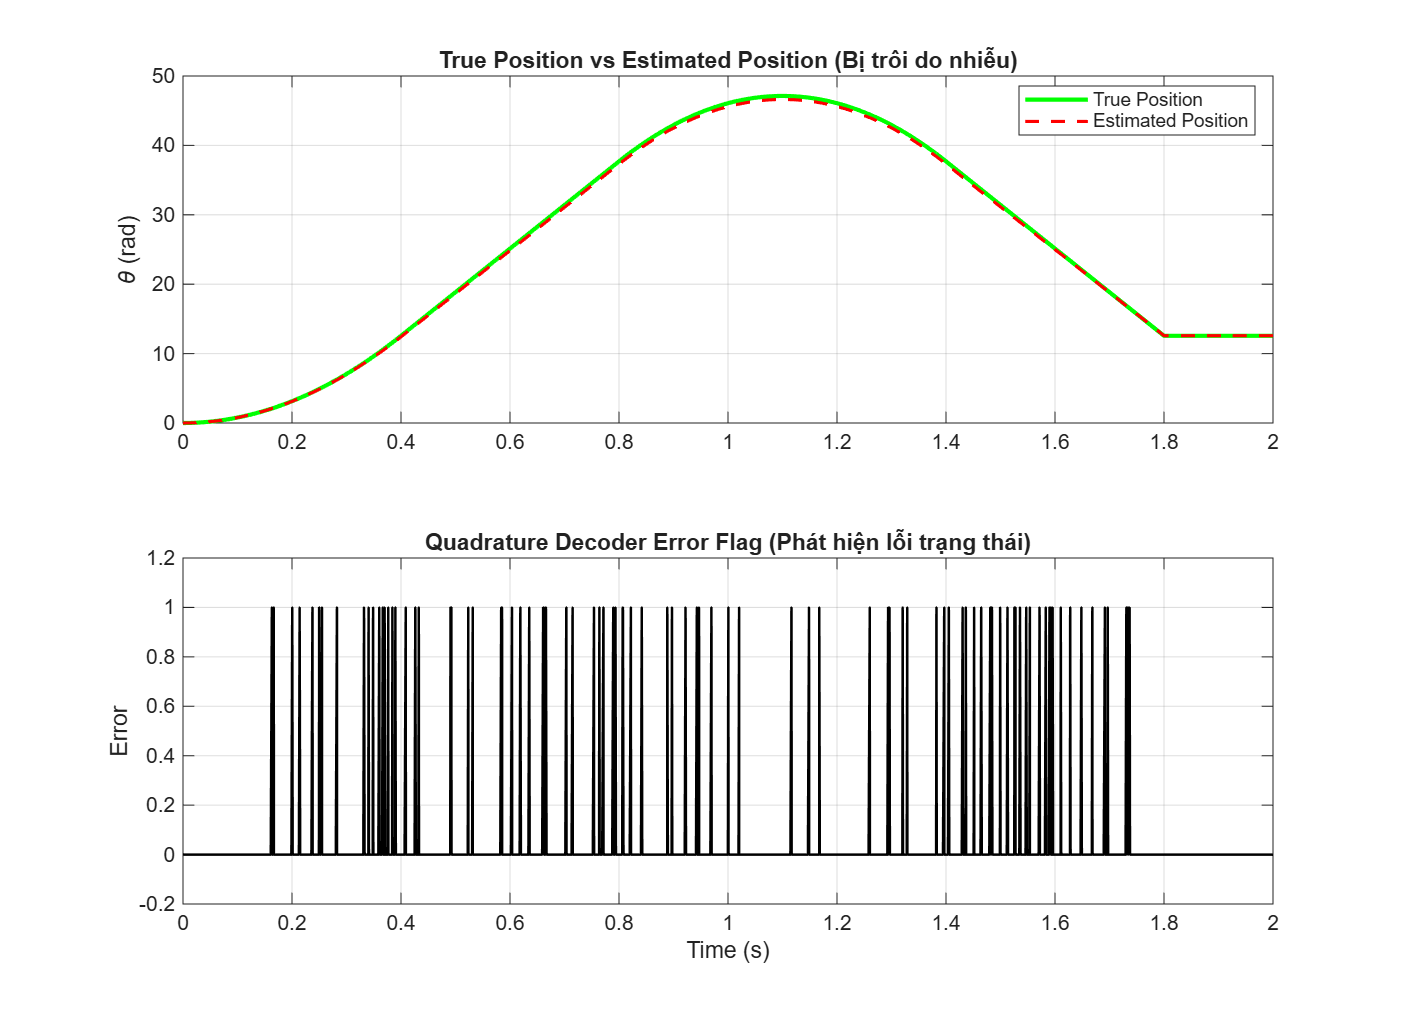
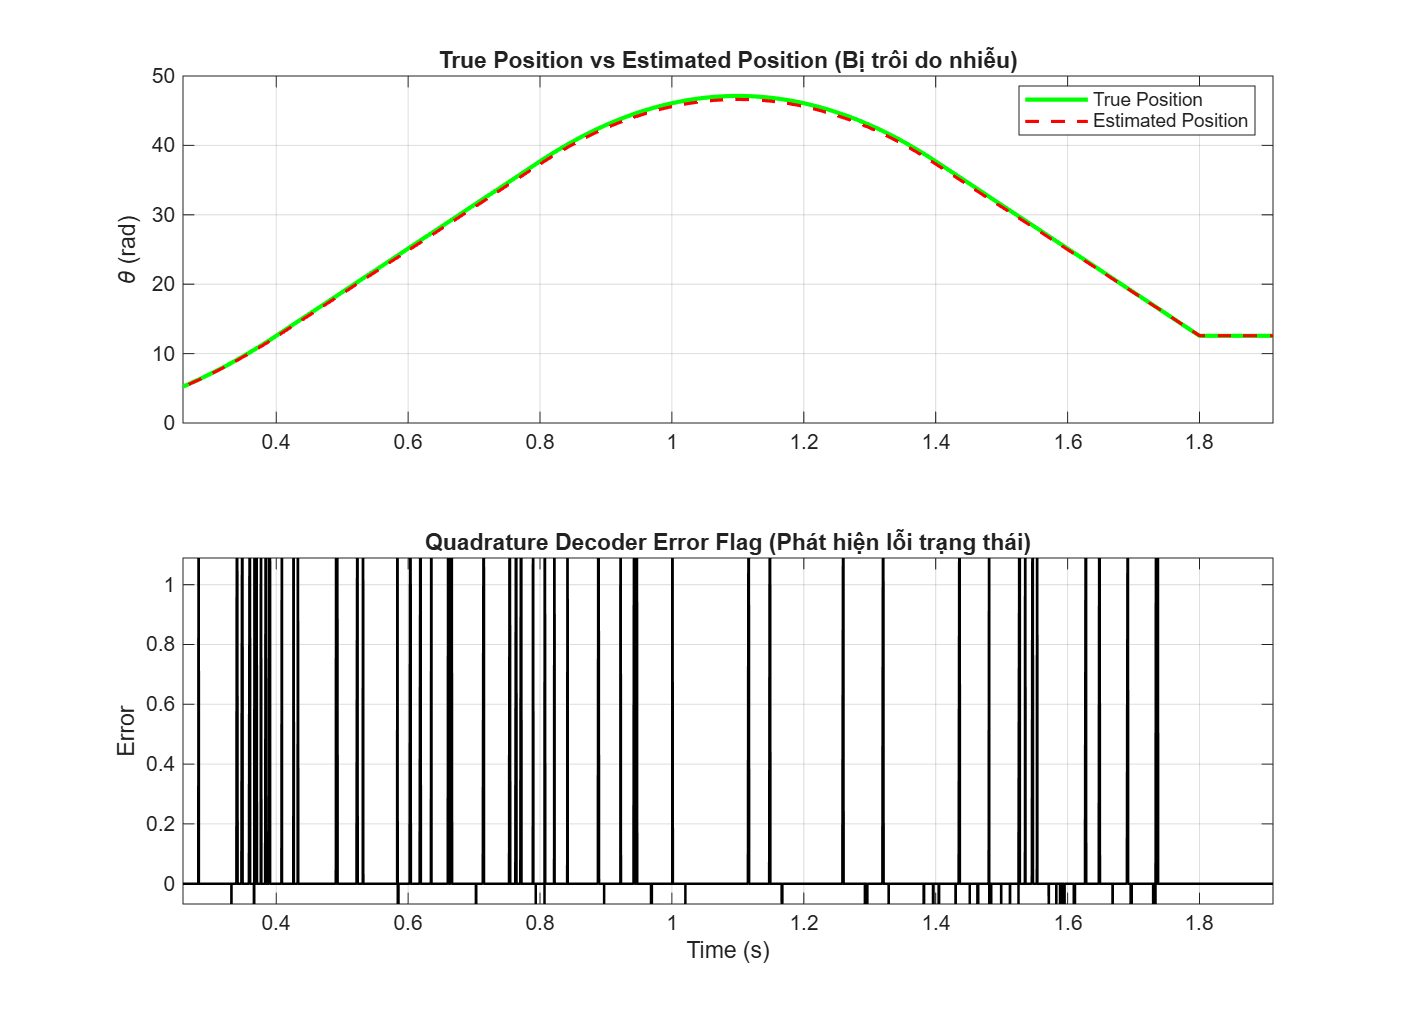
Day 8: Chinh sua flag logic va cap nhat ket qua phan tich do nhay/kha nang tai lap

diff --git a/main_day3.m b/main_day3.m
@@ -37,7 +37,10 @@ drop_rate = 0.01; % Tỷ lệ mất xung = 1%
 % ==========================================
 % 4. BỘ GIẢI MÃ QUADRATURE (X4 DECODER)
 % ==========================================
-[pos_count, error_flag] = quadrature_decoder_x4(A_noisy, B_noisy);
+[pos_count, missing_count] = quadrature_decoder_x4(A_noisy, B_noisy);
+
+% Chuyển missing_count {-2, 0, +2} thành binary error flag {0, 1}
+error_flag = double(missing_count ~= 0);
 
 % Đếm lỗi và sự kiện lỗi (chuyển trạng thái từ 0 -> 1)
 num_errors = sum(error_flag);
